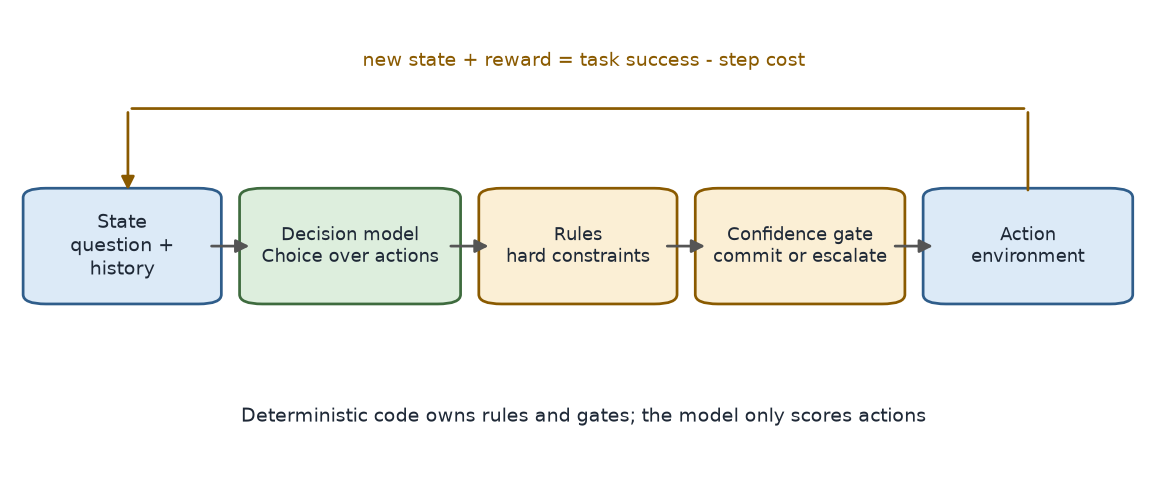
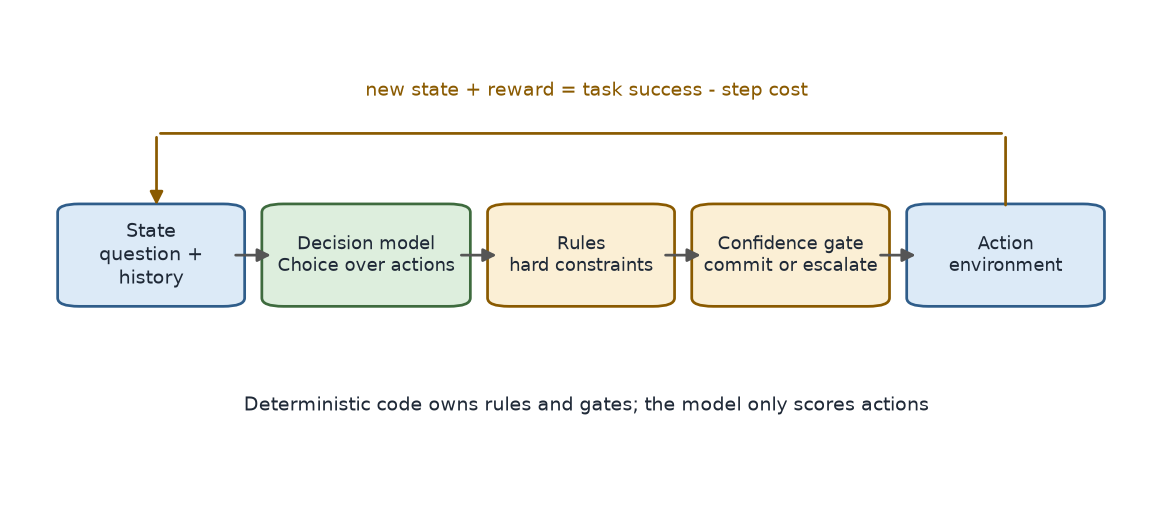
Fix clipped diagram borders with margins and border regression test

Changed region(s): [[0.0, 0.0896, 0.9871, 0.6275], [0.1851, 0.7769, 0.8021, 0.8665]]

diff --git a/tests/test_repo_quality.py b/tests/test_repo_quality.py
@@ -37,6 +37,35 @@ def test_notebook_images_exist():
                 assert (images / name).exists(), f"missing image {name} in {path}"
 
 
+def test_diagram_borders_not_clipped():
+    from PIL import Image
+
+    images = ROOT / "notebooks" / "images"
+    for name in (
+        "decision_model_flow.png",
+        "question_types.png",
+        "backend_choices.png",
+        "qa_to_decision_dataset.png",
+        "training_pipeline.png",
+        "agent_loop.png",
+    ):
+        with Image.open(images / name) as image:
+            image = image.convert("RGB")
+            width, height = image.size
+            pixels = image.load()
+            white = (255, 255, 255)
+            for row in range(height):
+                for col in range(4):
+                    assert pixels[col, row] == white, f"left border clipped in {name}"
+                    assert pixels[width - 1 - col, row] == white, f"right border clipped in {name}"
+            for col in range(width):
+                for row in range(4):
+                    assert pixels[col, row] == white, f"top border clipped in {name}"
+                    assert pixels[col, height - 1 - row] == white, (
+                        f"bottom border clipped in {name}"
+                    )
+
+
 def test_no_uncommon_characters():
     allowed_suffixes = {
         ".md",

diff --git a/scripts/make_figures.py b/scripts/make_figures.py
@@ -30,8 +30,8 @@ TEXT = "#1F2937"
 
 def canvas(width: float = 10, height: float = 3.6):
     fig, ax = plt.subplots(figsize=(width, height))
-    ax.set_xlim(0, 1)
-    ax.set_ylim(0, 1)
+    ax.set_xlim(-0.03, 1.03)
+    ax.set_ylim(-0.05, 1.08)
     ax.axis("off")
     return fig, ax
 
@@ -45,6 +45,7 @@ def box(ax, x, y, w, h, text, face=BLUE, edge=BLUE_EDGE, size=10):
         facecolor=face,
         edgecolor=edge,
         linewidth=1.4,
+        clip_on=False,
     )
     ax.add_patch(patch)
     ax.text(
@@ -68,6 +69,7 @@ def arrow(ax, start, end, color="#555555", style="-|>", rad=0.0):
             linewidth=1.4,
             color=color,
             connectionstyle=f"arc3,rad={rad}",
+            clip_on=False,
         )
     )
 
@@ -75,7 +77,7 @@ def arrow(ax, start, end, color="#555555", style="-|>", rad=0.0):
 def save(fig, name: str):
     OUT.mkdir(parents=True, exist_ok=True)
     path = OUT / name
-    fig.savefig(path, dpi=140, bbox_inches="tight", facecolor="white")
+    fig.savefig(path, dpi=140, bbox_inches="tight", pad_inches=0.12, facecolor="white")
     plt.close(fig)
     print("wrote", path)
 
